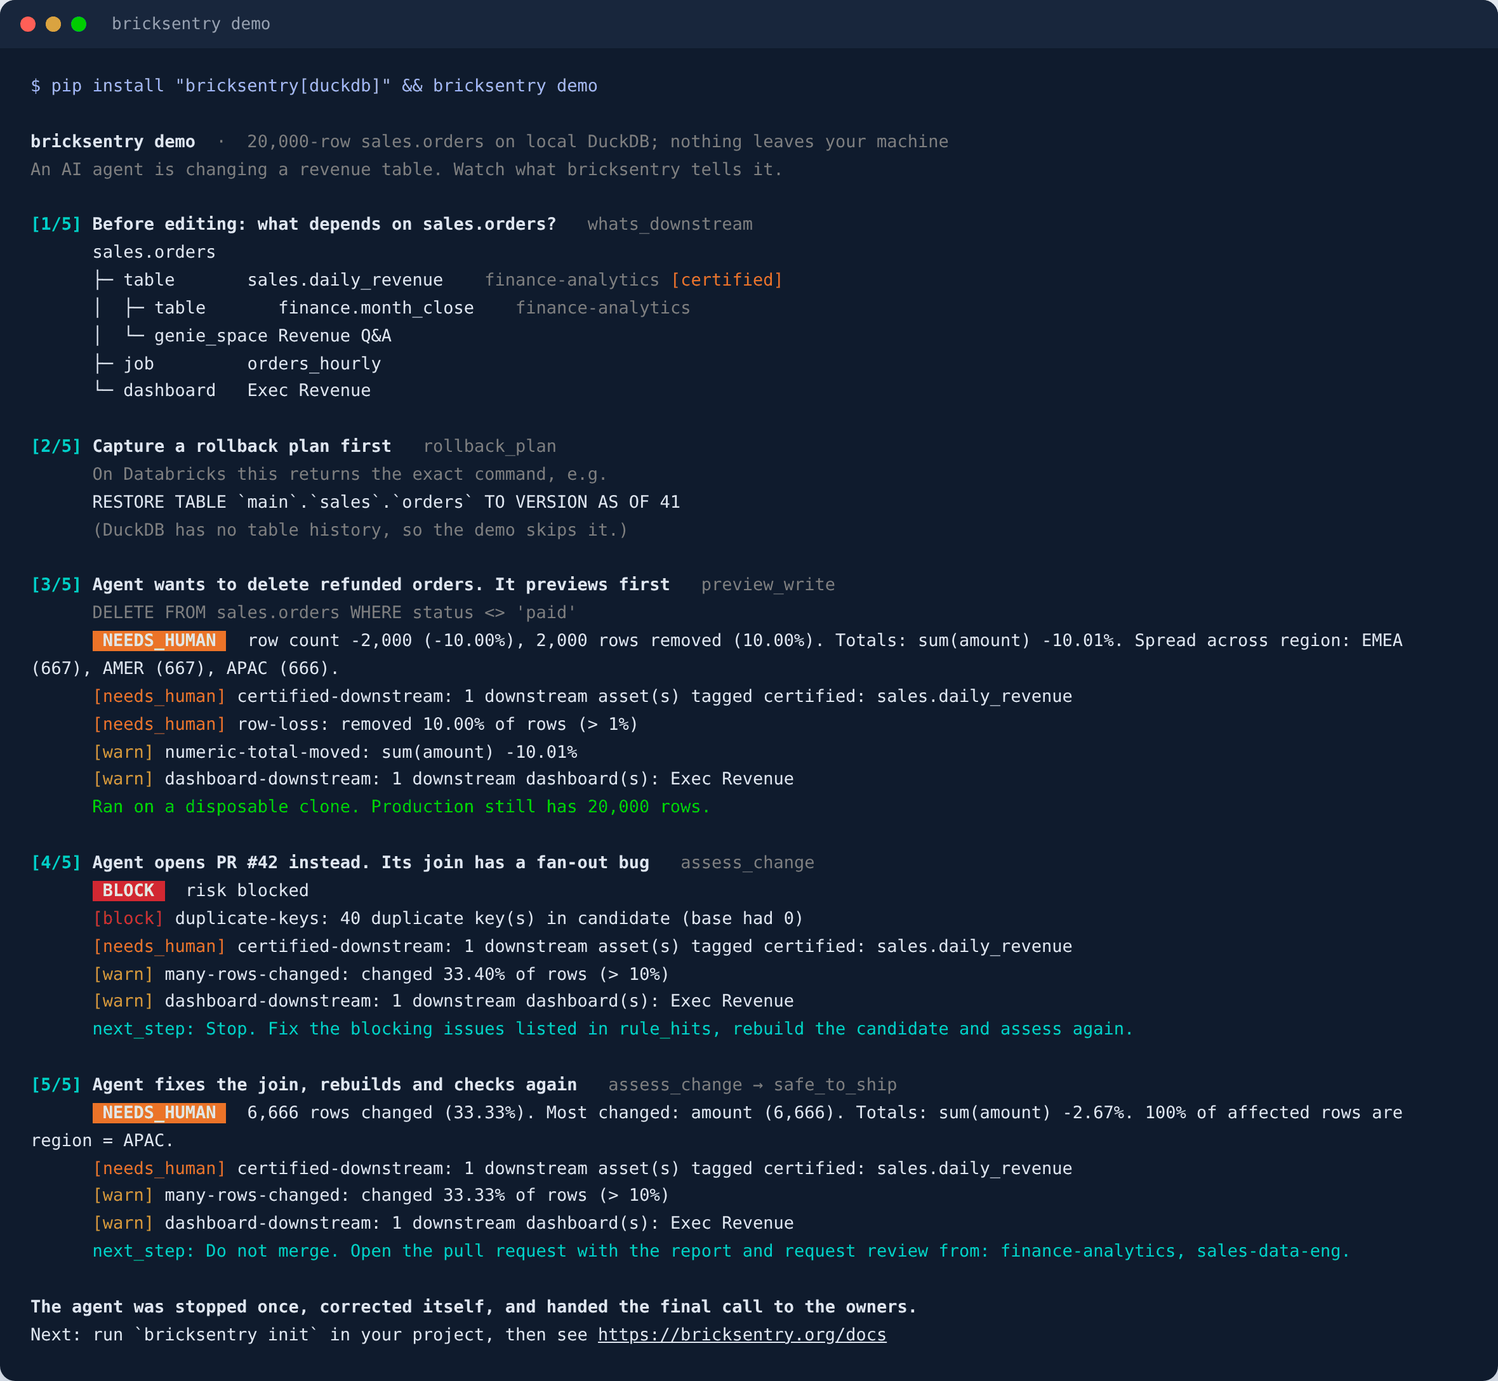
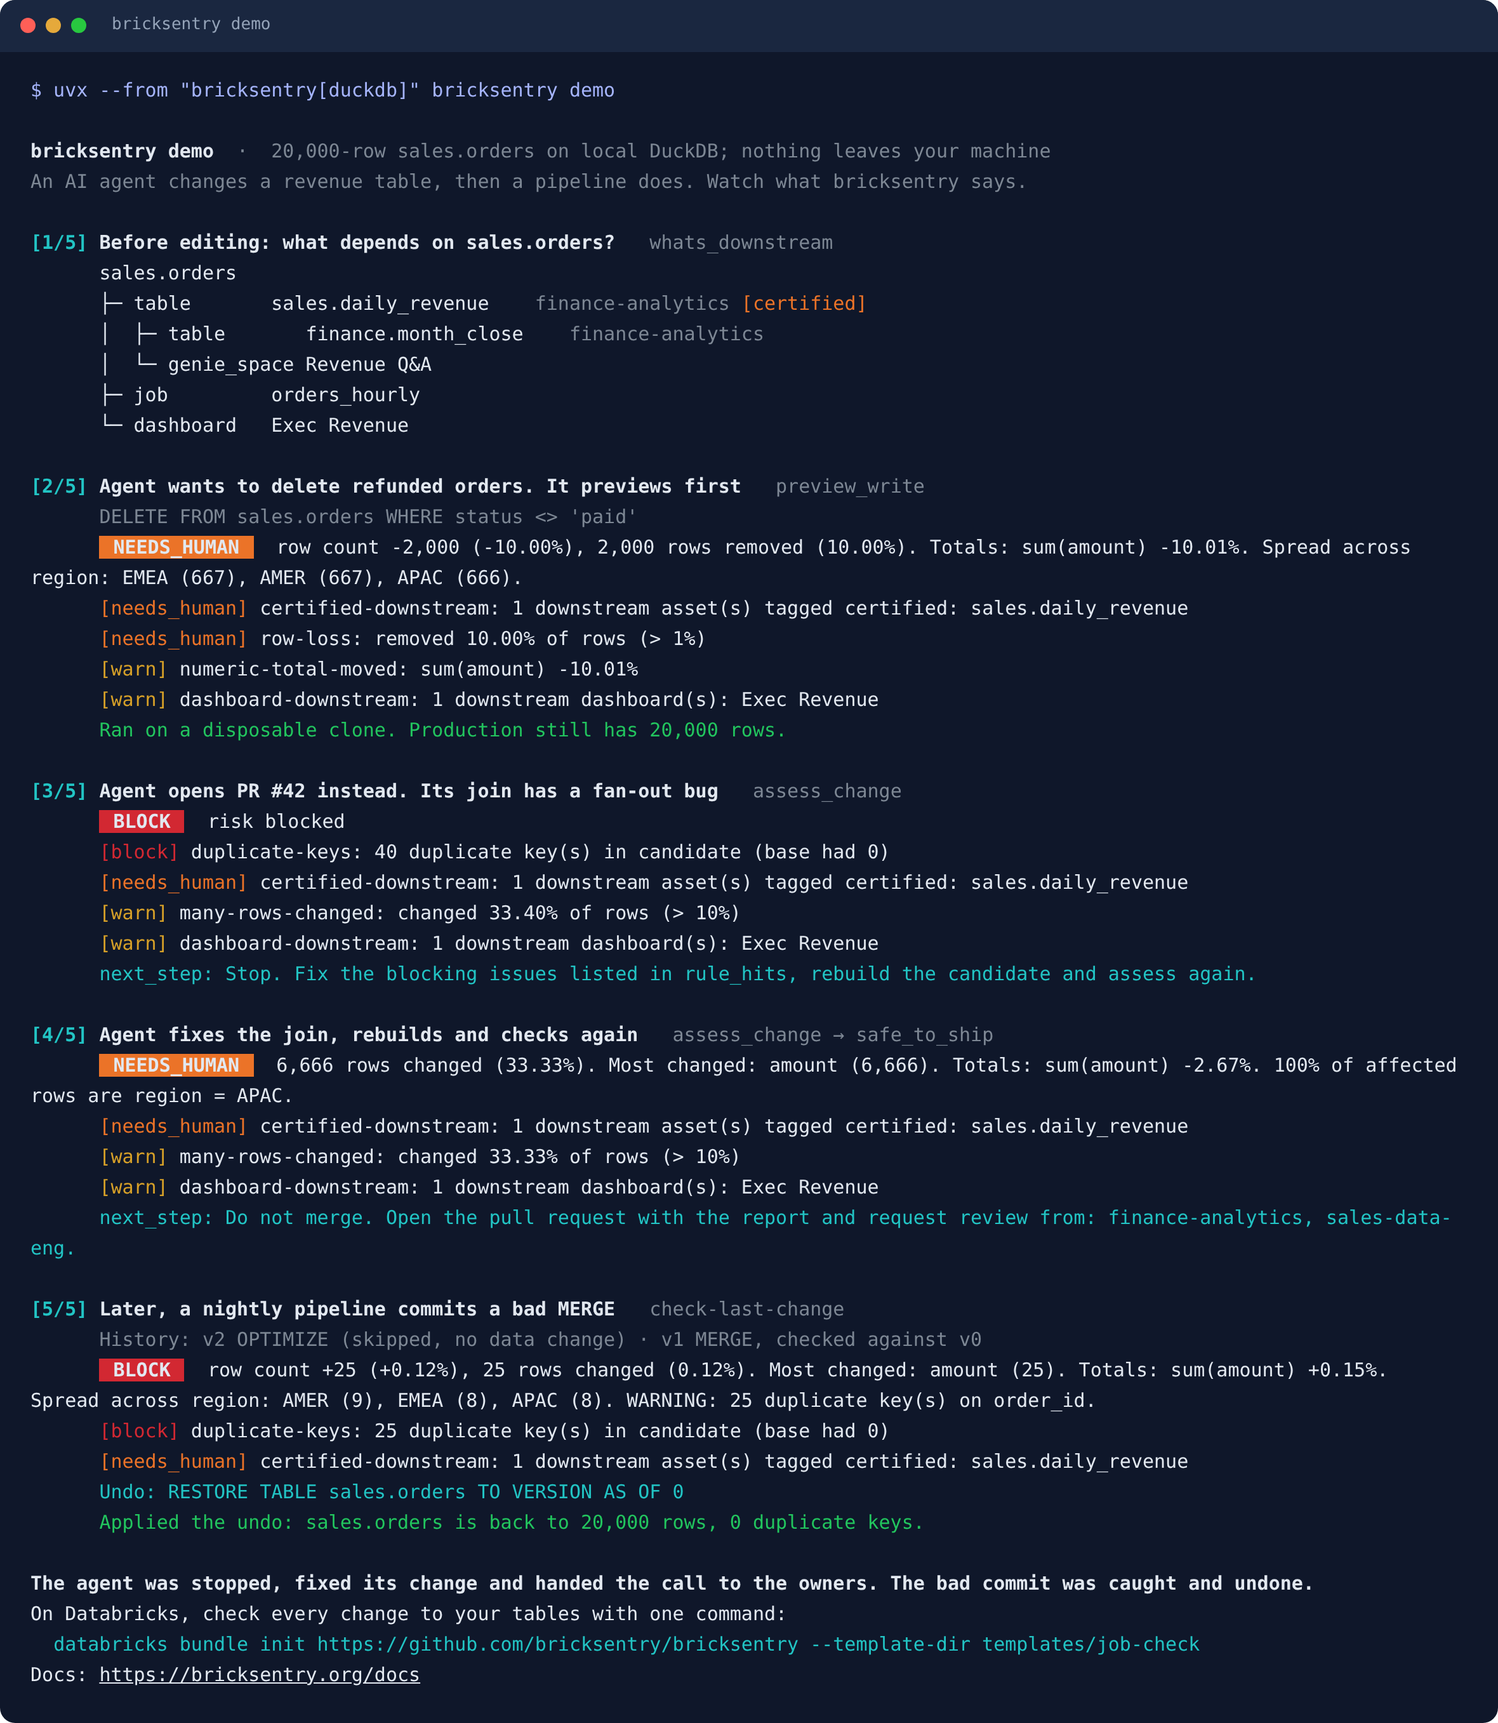
0.1.17: demo ends with a bad pipeline commit caught and undone; README opens with three steps
- demo step 5: bad MERGE found in table history, blocked, RESTORE applied (offline)
- README top: 30-second demo (uvx), bundle on Databricks, stop in job/CI/agents
- new demo screenshot from real output (scripts/render_demo_image.py)

diff --git a/src/bricksentry/demo.py b/src/bricksentry/demo.py
@@ -1,7 +1,11 @@
-"""``bricksentry demo``: the whole agent safety loop in about 30 seconds, locally.
+"""``bricksentry demo``: the whole safety loop in about 30 seconds, locally.
 
 Runs on an in-memory DuckDB database with a 20,000-row orders table and a small
 lineage graph, so it needs no Databricks workspace and no data leaves your machine.
+Steps 1-4: an AI agent previews a delete, gets its pull request blocked, fixes it.
+Step 5: a bad pipeline commit lands anyway; ``check-last-change`` catches it from the
+table history and the undo is applied. DuckDB has no table history, so the demo keeps
+versions itself; on Databricks the same check reads Delta history.
 """
 
 from __future__ import annotations
@@ -16,6 +20,7 @@ from bricksentry.assess import Sentry
 from bricksentry.config import Config
 
 DOCS_URL = "https://bricksentry.org/docs"
+BUNDLE_CMD = "databricks bundle init https://github.com/bricksentry/bricksentry --template-dir templates/job-check"
 
 CONFIG: dict[str, Any] = {
     "sandbox_schema": "sandbox",
@@ -65,6 +70,13 @@ FROM sales.orders
 
 DELETE_SQL = "DELETE FROM sales.orders WHERE status <> 'paid'"
 
+# A nightly pipeline whose MERGE matches on the wrong column: 25 existing orders come
+# back as new rows (duplicate keys) instead of updating in place.
+BAD_MERGE_SQL = """
+INSERT INTO sales.orders
+SELECT order_id, region, round(amount * 1.05, 2), status FROM sales.orders WHERE order_id % 800 = 0
+"""
+
 # Same verdict colors as the website: pass green, warn amber, needs_human orange, block red.
 _COLORS: dict[str, Any] = {"pass": (29, 160, 100), "warn": (214, 160, 40), "needs_human": (235, 115, 40), "block": (210, 40, 50)}
 
@@ -97,12 +109,45 @@ def _hits(rule_hits: list[dict[str, Any]]) -> None:
         _line(click.style(f"[{h['verdict']}]", fg=_COLORS.get(h["verdict"], "white")) + f" {h['rule']}: {h['reason']}")
 
 
+def _versioned_backend():
+    """DuckDB plus a minimal table history (snapshots), so step 5 can run offline."""
+    from bricksentry.backends.duckdb_backend import DuckDBBackend
+
+    class VersionedDuckDB(DuckDBBackend):
+        supports_time_travel = True
+
+        def __init__(self) -> None:
+            super().__init__()
+            self._history: list[dict[str, Any]] = []
+
+        def commit(self, table: str, operation: str, sql: str | None = None) -> int:
+            if sql:
+                self.execute(sql)
+            v = len(self._history)
+            self.execute(f"CREATE SCHEMA IF NOT EXISTS _history; "
+                         f"CREATE OR REPLACE TABLE _history.{table.replace('.', '__')}_v{v} AS SELECT * FROM {table}")
+            self._history.append({"version": v, "operation": operation, "timestamp": ""})
+            return v
+
+        def history(self, table: str, limit: int = 50) -> list[dict[str, Any]]:
+            return list(reversed(self._history))[:limit]
+
+        def clone_version(self, source: str, target: str, version: int) -> None:
+            self.execute(f"CREATE OR REPLACE TABLE {target} AS "
+                         f"SELECT * FROM _history.{source.replace('.', '__')}_v{int(version)}")
+
+        def restore(self, table: str, version: int) -> int:
+            self.execute(f"CREATE OR REPLACE TABLE {table} AS "
+                         f"SELECT * FROM _history.{table.replace('.', '__')}_v{int(version)}")
+            return self.commit(table, "RESTORE")
+
+    return VersionedDuckDB()
+
+
 def run_demo(report_path: str | None = None) -> dict[str, Any]:
     """Run the demo, print it, and return the key results (used by tests)."""
     try:
-        from bricksentry.backends.duckdb_backend import DuckDBBackend
-
-        backend = DuckDBBackend()
+        backend = _versioned_backend()
     except ImportError:
         # Raised without the inner traceback so a notebook shows one clear line.
         raise ImportError(
@@ -112,6 +157,7 @@ def run_demo(report_path: str | None = None) -> dict[str, Any]:
 
     backend.execute("CREATE SCHEMA sales; CREATE SCHEMA sales_pr_42")
     backend.execute(SEED_SQL)
+    backend.commit("sales.orders", "CREATE TABLE AS SELECT")
     sentry = Sentry(Config.from_dict({**CONFIG, "assessment_store": False}), backend=backend)
     previous = agent_tools._SENTRY
     agent_tools.set_sentry(sentry)
@@ -121,7 +167,8 @@ def run_demo(report_path: str | None = None) -> dict[str, Any]:
             click.style("bricksentry demo", bold=True)
             + click.style("  ·  20,000-row sales.orders on local DuckDB; nothing leaves your machine", fg="bright_black")
         )
-        click.echo(click.style("An AI agent is changing a revenue table. Watch what bricksentry tells it.", fg="bright_black"))
+        click.echo(click.style("An AI agent changes a revenue table, then a pipeline does. Watch what bricksentry says.",
+                               fg="bright_black"))
         total = 5
 
         _step(1, total, "Before editing: what depends on sales.orders?", "whats_downstream")
@@ -146,12 +193,7 @@ def run_demo(report_path: str | None = None) -> dict[str, Any]:
         walk("sales.orders", "")
         results["downstream_count"] = ds["count"]
 
-        _step(2, total, "Capture a rollback plan first", "rollback_plan")
-        _line("On Databricks this returns the exact command, e.g.", fg="bright_black")
-        _line("RESTORE TABLE `main`.`sales`.`orders` TO VERSION AS OF 41")
-        _line("(DuckDB has no table history, so the demo skips it.)", fg="bright_black")
-
-        _step(3, total, "Agent wants to delete refunded orders. It previews first", "preview_write")
+        _step(2, total, "Agent wants to delete refunded orders. It previews first", "preview_write")
         _line(DELETE_SQL, fg="bright_black")
         p = agent_tools.preview_write(DELETE_SQL, "sales.orders")
         _line(_verdict(p["verdict"]) + "  " + _short(p["tables"][0]["summary"]))
@@ -161,7 +203,7 @@ def run_demo(report_path: str | None = None) -> dict[str, Any]:
         results["preview_verdict"] = p["verdict"]
         results["production_rows_after_preview"] = prod_rows
 
-        _step(4, total, "Agent opens PR #42 instead. Its join has a fan-out bug", "assess_change")
+        _step(3, total, "Agent opens PR #42 instead. Its join has a fan-out bug", "assess_change")
         backend.execute(BUGGY_SQL)
         a = agent_tools.assess_change(["sales.orders"], pr="42")
         _line(_verdict(a["verdict"]) + f"  risk {a['risk_tier']}")
@@ -170,7 +212,7 @@ def run_demo(report_path: str | None = None) -> dict[str, Any]:
         _line("next_step: " + gate["next_step"], fg="cyan")
         results["buggy_verdict"] = a["verdict"]
 
-        _step(5, total, "Agent fixes the join, rebuilds and checks again", "assess_change → safe_to_ship")
+        _step(4, total, "Agent fixes the join, rebuilds and checks again", "assess_change → safe_to_ship")
         backend.execute(FIXED_SQL)
         a2 = agent_tools.assess_change(["sales.orders"], pr="42")
         explanation = agent_tools.explain_diff(assessment_id=a2["id"])["explanations"]["sales.orders"]
@@ -181,6 +223,26 @@ def run_demo(report_path: str | None = None) -> dict[str, Any]:
         results["fixed_verdict"] = a2["verdict"]
         results["notify"] = gate2["notify"]
 
+        _step(5, total, "Later, a nightly pipeline commits a bad MERGE", "check-last-change")
+        backend.commit("sales.orders", "MERGE", BAD_MERGE_SQL)
+        backend.commit("sales.orders", "OPTIMIZE")
+        a3, change = sentry.check_change("sales.orders")
+        t3 = a3.tables[0]
+        _line(f"History: v2 OPTIMIZE (skipped, no data change) · v1 MERGE, checked against v{change.base_version}",
+              fg="bright_black")
+        _line(_verdict(a3.verdict.value) + "  " + _short(t3.summary.split(": ", 1)[-1]))
+        _hits([{"verdict": h.verdict.value, "rule": h.rule, "reason": h.reason} for h in t3.hits
+               if h.verdict.value in ("block", "needs_human")])
+        undo = t3.rollback.replace('"', "")
+        _line("Undo: " + undo, fg="cyan")
+        backend.restore("sales.orders", change.base_version)
+        rows = backend.scalar("SELECT COUNT(*) FROM sales.orders")
+        dups = backend.scalar("SELECT COUNT(*) - COUNT(DISTINCT order_id) FROM sales.orders")
+        _line(f"Applied the undo: sales.orders is back to {rows:,} rows, {dups} duplicate keys.", fg="green")
+        results["commit_verdict"] = a3.verdict.value
+        results["undo"] = undo
+        results["rows_after_undo"] = rows
+
         if report_path:
             from bricksentry.report import to_markdown
 
@@ -189,8 +251,11 @@ def run_demo(report_path: str | None = None) -> dict[str, Any]:
             click.echo(f"Wrote {report_path}: the pull-request comment a reviewer would see.")
 
         click.echo()
-        click.echo(click.style("The agent was stopped once, corrected itself, and handed the final call to the owners.", bold=True))
-        click.echo("Next: run `bricksentry init` in your project, then see " + click.style(DOCS_URL, underline=True))
+        click.echo(click.style("The agent was stopped, fixed its change and handed the call to the owners. "
+                               "The bad commit was caught and undone.", bold=True))
+        click.echo("On Databricks, check every change to your tables with one command:")
+        click.echo("  " + click.style(BUNDLE_CMD, fg="cyan"))
+        click.echo("Docs: " + click.style(DOCS_URL, underline=True))
     finally:
         agent_tools.set_sentry(previous)
     return results

diff --git a/scripts/render_demo_image.py b/scripts/render_demo_image.py
@@ -1,0 +1,115 @@
+"""Render `bricksentry demo` output as docs/images/demo.png (terminal-window style).
+
+    python scripts/render_demo_image.py            # needs: playwright + chromium
+
+Runs the demo with colors on, converts the ANSI output to HTML and screenshots it.
+"""
+
+from __future__ import annotations
+
+import html
+import io
+import re
+import sys
+from contextlib import redirect_stdout
+from pathlib import Path
+
+OUT = Path(__file__).resolve().parents[1] / "docs" / "images" / "demo.png"
+COMMAND = 'uvx --from "bricksentry[duckdb]" bricksentry demo'
+
+BASIC = {30: "#1e293b", 31: "#e5484d", 32: "#22c55e", 33: "#e5a93b", 34: "#60a5fa", 35: "#c084fc",
+         36: "#22c4c4", 37: "#e2e8f0", 90: "#7d8794", 91: "#f87171", 92: "#4ade80", 93: "#facc15",
+         94: "#93c5fd", 95: "#e879f9", 96: "#67e8f9", 97: "#ffffff"}
+
+
+def capture() -> str:
+    import click
+
+    from bricksentry.demo import run_demo
+
+    buf = io.StringIO()
+    orig = click.echo
+
+    def echo(message=None, **kw):  # keep ANSI codes when writing to a StringIO
+        kw["color"] = True
+        return orig(message, **kw)
+
+    click.echo = echo
+    try:
+        with redirect_stdout(buf):
+            run_demo()
+    finally:
+        click.echo = orig
+    return buf.getvalue()
+
+
+def ansi_to_html(text: str) -> str:
+    out: list[str] = []
+    state: dict[str, str] = {}
+    pos = 0
+    for m in re.finditer(r"\x1b\[([0-9;]*)m", text):
+        out.append(_span(text[pos:m.start()], state))
+        codes = [int(c) for c in m.group(1).split(";") if c] or [0]
+        i = 0
+        while i < len(codes):
+            c = codes[i]
+            if c == 0:
+                state = {}
+            elif c == 1:
+                state["font-weight"] = "700"
+            elif c == 4:
+                state["text-decoration"] = "underline"
+            elif c in BASIC:
+                state["color"] = BASIC[c]
+            elif c in (38, 48) and codes[i + 1:i + 2] == [2]:
+                r, g, b = codes[i + 2:i + 5]
+                key = "color" if c == 38 else "background"
+                state[key] = f"rgb({r},{g},{b})"
+                if c == 48:
+                    state["padding"] = "0 2px"
+                i += 4
+            i += 1
+        pos = m.end()
+    out.append(_span(text[pos:], state))
+    return "".join(out)
+
+
+def _span(s: str, state: dict[str, str]) -> str:
+    if not s:
+        return ""
+    s = html.escape(s)
+    if not state:
+        return s
+    return f'<span style="{";".join(f"{k}:{v}" for k, v in state.items())}">{s}</span>'
+
+
+PAGE = """<!doctype html><html><head><meta charset="utf-8"><style>
+body{{margin:0;background:transparent}}
+.win{{width:1180px;background:#0f172a;border-radius:12px;overflow:hidden;font:15px/1.6 'DejaVu Sans Mono',monospace;color:#e2e8f0}}
+.bar{{background:#1a2740;padding:10px 16px;display:flex;gap:8px;align-items:center;color:#94a3b8;font-size:13px}}
+.dot{{width:12px;height:12px;border-radius:50%;display:inline-block}}
+pre{{margin:0;padding:18px 24px 26px;white-space:pre-wrap;font:inherit}}
+.cmd{{color:#a5b4fc}}
+</style></head><body><div class="win"><div class="bar"><span class="dot" style="background:#ff5f57"></span>
+<span class="dot" style="background:#e5a93b"></span><span class="dot" style="background:#28c840"></span>
+<span style="margin-left:12px">bricksentry demo</span></div><pre><span class="cmd">$ {cmd}</span>
+
+{body}</pre></div></body></html>"""
+
+
+def main() -> None:
+    from playwright.sync_api import sync_playwright
+
+    body = ansi_to_html(capture().rstrip("\n"))
+    page_html = PAGE.format(cmd=html.escape(COMMAND), body=body)
+    with sync_playwright() as p:
+        b = p.chromium.launch()
+        page = b.new_page(device_scale_factor=2, viewport={"width": 1180, "height": 800})
+        page.set_content(page_html)
+        page.locator(".win").screenshot(path=str(OUT), omit_background=True)
+        b.close()
+    print(f"wrote {OUT}", file=sys.stderr)
+
+
+if __name__ == "__main__":
+    main()

diff --git a/tests/test_demo.py b/tests/test_demo.py
@@ -13,8 +13,14 @@ def test_demo_results(capsys):
     assert r["buggy_verdict"] == "block"
     assert r["fixed_verdict"] == "needs_human"
     assert r["notify"] == ["finance-analytics", "sales-data-eng"]
+    assert r["commit_verdict"] == "block"
+    assert r["undo"] == "RESTORE TABLE sales.orders TO VERSION AS OF 0"
+    assert r["rows_after_undo"] == 20000
     out = capsys.readouterr().out
     assert "duplicate-keys" in out and "Production still has 20,000 rows" in out
+    assert "v2 OPTIMIZE (skipped" in out and "back to 20,000 rows, 0 duplicate keys" in out
+    assert "--template-dir templates/job-check" in out
+    assert "[5/5]" in out and "[6/" not in out
     assert agent_tools._SENTRY is None  # demo restores global agent state
 
 

diff --git a/src/bricksentry/__init__.py b/src/bricksentry/__init__.py
@@ -23,4 +23,4 @@ __all__ = [
     "TableDiff",
     "Verdict",
 ]
-__version__ = "0.1.16"
+__version__ = "0.1.17"

diff --git a/README.md b/README.md
@@ -8,22 +8,36 @@
 
 Change-safety for Databricks pipelines and the AI agents that edit them: know what a change does to your data before it ships.
 
-**[Try it in 30 seconds](#try-it-in-30-seconds-no-databricks-needed)** · **[Run the Databricks notebook](#run-it-in-your-databricks-workspace)** · **[Docs: bricksentry.org](https://bricksentry.org)** · **[LinkedIn](https://www.linkedin.com/company/bricksentry-org/)**
+**[Try it in 30 seconds](#1-try-it-in-30-seconds-on-your-laptop)** · **[Check every change on Databricks](#2-check-every-change-to-your-tables-on-databricks)** · **[Docs: bricksentry.org](https://bricksentry.org)** · **[LinkedIn](https://www.linkedin.com/company/bricksentry-org/)**
 
 Built by Brahmareddy, Databricks Champion. Open source under Apache-2.0.
 
 *Why the name?* Bricks plus entry. Your tables and pipelines are the bricks of the lakehouse, and every change to them is an entry. bricksentry checks each entry, reports what it does, and stands guard before it lands.
 
-## Try it in 30 seconds (no Databricks needed)
+## Three steps, each on more real data
+
+### 1. Try it in 30 seconds, on your laptop
 
 ```bash
-pip install "bricksentry[duckdb]"
-bricksentry demo
+uvx --from "bricksentry[duckdb]" bricksentry demo
 ```
 
-An AI agent changes a 20,000-row revenue table. bricksentry previews its DELETE on a clone (production untouched), **blocks** its pull request for a join that duplicates 40 orders, and routes the fixed version to the owners of a certified table downstream. Everything runs locally on DuckDB.
+(Or `pip install "bricksentry[duckdb]"` and then `bricksentry demo`.) No Databricks account and nothing leaves your machine: it runs on a 20,000-row revenue table in local DuckDB. An AI agent previews a DELETE on a clone (production untouched), gets its pull request **blocked** for a join that duplicates 40 orders, fixes it, and is routed to the owners of a certified table downstream. Then a nightly pipeline commits a bad MERGE anyway: bricksentry finds it in the table history, skips the OPTIMIZE after it, **blocks** it for 25 duplicate keys, prints the `RESTORE` and applies it.
 
-![bricksentry demo: an agent's change is previewed, blocked for duplicate keys, then routed to the table owners](https://raw.githubusercontent.com/bricksentry/bricksentry/main/docs/images/demo.png)
+![bricksentry demo: an agent's change is previewed, blocked, fixed and routed to the owners; then a bad pipeline commit is caught from table history and undone](https://raw.githubusercontent.com/bricksentry/bricksentry/main/docs/images/demo.png)
+
+### 2. Check every change to your tables, on Databricks
+
+```bash
+databricks bundle init https://github.com/bricksentry/bricksentry --template-dir templates/job-check
+cd bricksentry_check && databricks bundle deploy -t prod
+```
+
+One command and a few prompts give you a serverless job that runs after every commit to the tables you pick: the same check as the demo's last step, on your data, with a Slack alert and the `RESTORE` that undoes a bad change. [Details below](#check-every-pipeline-run-automatically-asset-bundle).
+
+### 3. Stop bad changes before anything reads them
+
+Put the check inside your pipeline job, right after the task that writes the table: a `block` fails that task and the tasks downstream don't run. Or run it on pull requests with the [GitHub Action](#for-data-engineers-cli-and-ci), and give AI agents the same checks through the [MCP server](#for-ai-agents-the-mcp-server).
 
 ## Run it in your Databricks workspace
 
@@ -36,7 +50,7 @@ Point the [check-my-table notebook](examples/databricks/bricksentry_check_my_tab
 
 If it shows you something, please [share what it found](https://github.com/bricksentry/bricksentry/issues/new?template=it_caught_this.yml) (no table names needed). Real results decide what gets built next.
 
-### Check every pipeline run automatically (Asset Bundle, 5 minutes)
+### Check every pipeline run automatically (Asset Bundle)
 
 ```bash
 databricks bundle init https://github.com/bricksentry/bricksentry --template-dir templates/job-check

diff --git a/CHANGELOG.md b/CHANGELOG.md
@@ -1,5 +1,11 @@
 # Changelog
 
+## 0.1.17 (2026-11-12)
+
+- `bricksentry demo` now ends with a pipeline commit: a nightly MERGE with a wrong match condition lands, `check-last-change` finds it in the table history (skipping the OPTIMIZE after it), blocks it for 25 duplicate keys, prints the `RESTORE` and applies it. It replaces the old step 2, which only described a rollback because DuckDB has no table history; the demo now keeps versions itself. It still runs offline in about a second and ends with the one-command Databricks setup.
+- The README opens with three steps, each on more real data: the 30-second demo on your laptop (`uvx --from "bricksentry[duckdb]" bricksentry demo`, nothing to install first), checking every change to your tables on Databricks with the bundle template, and stopping bad changes inside your pipeline job, in CI or for AI agents.
+- New demo screenshot, generated from the real output by `scripts/render_demo_image.py`.
+
 ## 0.1.16 (2026-11-11)
 
 From the live test of 0.1.15 on Databricks serverless:
